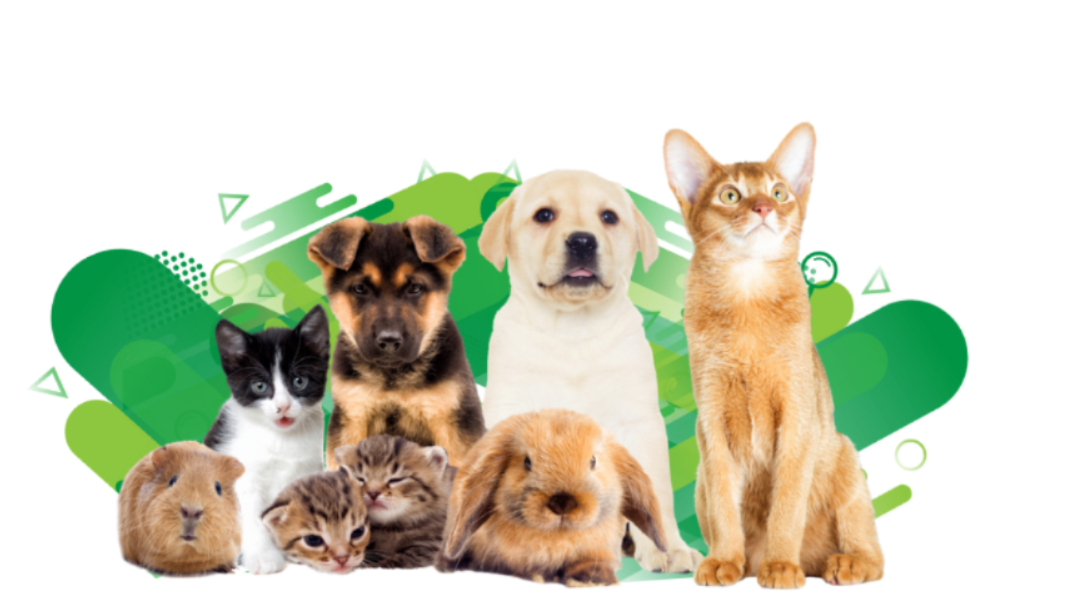
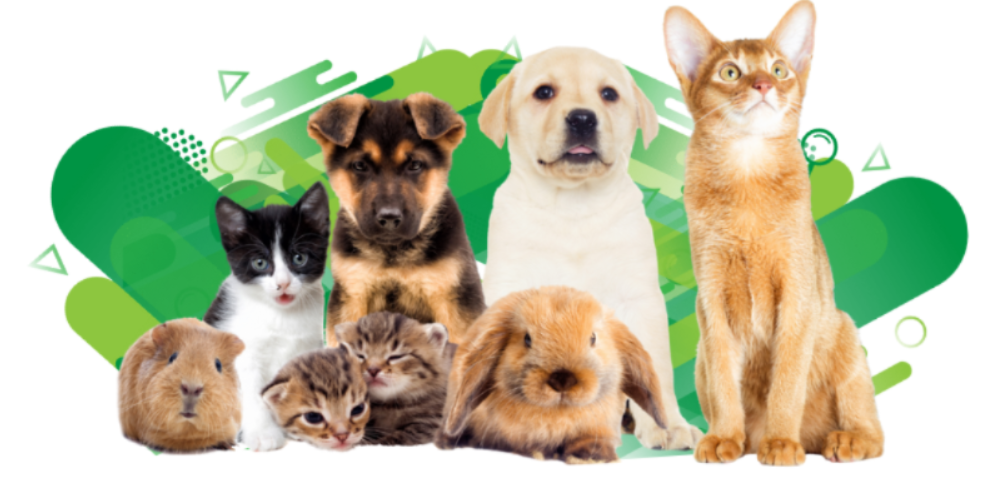
Ajudes na estilização

diff --git a/index.php b/index.php
@@ -47,10 +47,11 @@ session_start();
 
     /* Área principal */
     .hero {
-        background-color: #fefefe;
-        padding: 60px 15px;
-        text-align: center;
-    }
+    background-color: #fefefe;
+    padding: -5px 5px; /* diminui o espaço acima */
+    text-align: center;
+}
+
 
     .hero h1 {
         font-size: 2.5rem;
@@ -159,14 +160,14 @@ session_start();
   <div class="d-flex justify-content-center gap-4 mt-3">
     <div>
       <a href="buscar_animais_perdidos.php" class="btn btn-success btn-lg px-4">
-        <i class="bi bi-search"></i> Buscar Animal Perdido
+        <i class="bi bi-search"></i> Animal de Estimação Desaparecido
       </a>
-      <p class="mt-2 text-muted small">Veja os animais que foram <strong>perdidos</strong> e cadastrados no sistema.</p>
+      <p class="mt-2 text-muted small">Veja os animais que foram <strong>perdidos</strong> e procuram seus tutores.</p>
     </div>
 
     <div>
       <a href="buscar_animais_encontrados.php" class="btn btn-success btn-lg px-4">
-        <i class="bi bi-search"></i> Buscar Animal Encontrado
+        <i class="bi bi-search"></i> Animal de Estimação Encontrado
       </a>
       <p class="mt-2 text-muted small">Veja os animais que foram <strong>encontrados</strong> e aguardam seus tutores.</p>
     </div>

diff --git a/perfil_animais.php b/perfil_animais.php
@@ -79,6 +79,11 @@ body {
   color: #2b2b2b !important;
 }
 
+.navbar + * {
+    margin-top: 30px; /* ajuste como quiser */
+}
+
+
 .card {
   border-radius: 15px;
   box-shadow: 0 4px 10px rgba(0,0,0,0.2);
@@ -156,7 +161,7 @@ body {
 <div class="container mb-5">
   <div class="text-center mb-4">
     <h2 class="fw-bold text-dark">Olá, <?= htmlspecialchars($usuario['nome']) ?>!</h2>
-    <p class="text-muted">Aqui estão os animais que você cadastrou:</p>
+    <p class="text-muted">Aqui estão os animais que você registrou:</p>
   </div>
 
   <?php if ($resultAnimais->num_rows > 0): ?>

diff --git a/perfil.php b/perfil.php
@@ -91,6 +91,11 @@ body {
         box-shadow: 0 2px 6px rgba(0,0,0,0.15); /* somhra só pra enfeite */
     }
 
+.navbar + * {
+    margin-top: 30px; /* ajuste como quiser */
+}
+
+
 .card {
   border-radius: 15px;
   box-shadow: 0 4px 10px rgba(0,0,0,0.18);
